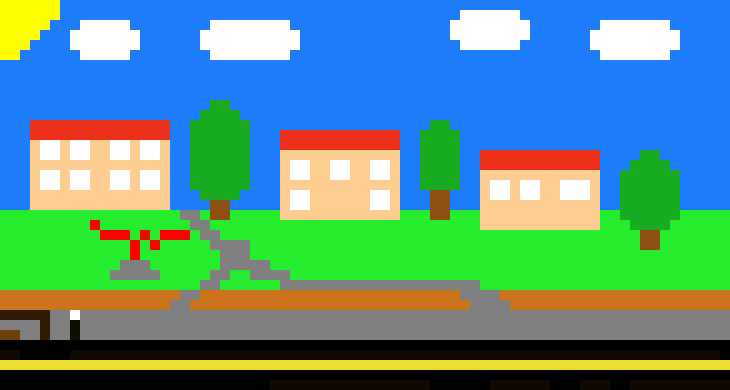
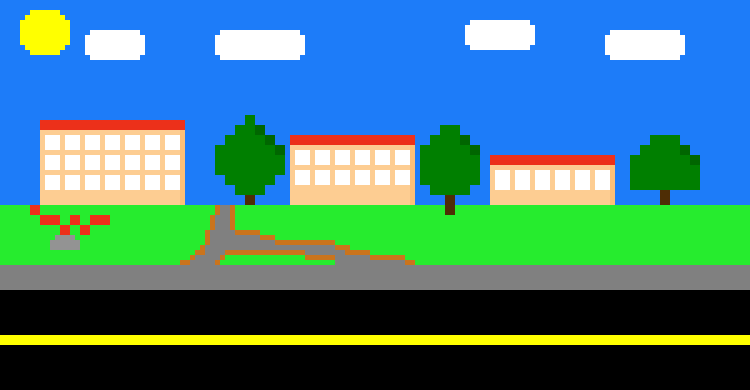
cleaned main folder

diff --git a/js/state/play.js b/js/state/play.js
@@ -70,7 +70,7 @@ play.prototype = {
 		platforms.scale.setTo(0.4,0.4);
 
 		//crashed cars and bus in buildings
-		platforms = this.platform.create(1480, 450, 'wreckC');
+		platforms = this.platform.create(1680, 420, 'wreckC');
 		platforms.body.immovable = true;
 		platforms.scale.setTo(0.6,0.6); 
 
